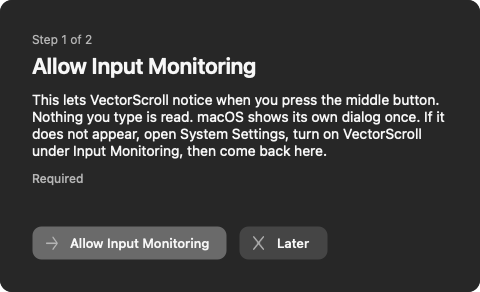
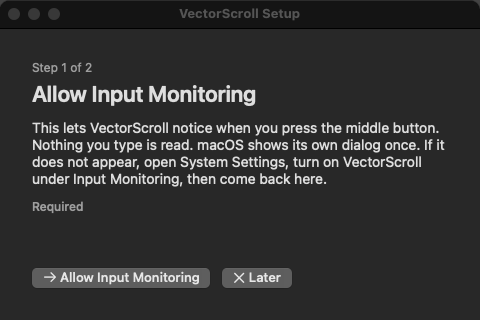
Trust fixture signers and refresh native settings screenshots

diff --git a/site/docs.html b/site/docs.html
@@ -23,7 +23,7 @@
     <h1>Docs</h1>
     <h2 id="start">Getting started</h2>
     <p>Download the <a href="https://github.com/Sowyu/VectorScroll/releases/latest/download/VectorScroll.dmg">DMG</a>, drag VectorScroll into Applications, and open it. The setup guide asks for two permissions, one page each. Then press the middle button in any window and move the pointer.</p>
-    <img src="onboarding.png" alt="Setup guide, Input Monitoring step" width="480" height="292">
+    <img src="onboarding.png" alt="Setup guide, Input Monitoring step" width="480" height="320">
     <h2 id="scrolling">Scrolling</h2>
     <p><b>Hold to scroll</b> is the default. Hold the middle button, move, release to stop. Nothing happens until the pointer leaves the 10 pt dead zone, so a quick middle click still opens a link in a new tab.</p>
     <p><b>Toggle scrolling</b> keeps going after you let go. Any mouse button stops it. The click that stops it also reaches the app under the pointer, so stop over empty space if you do not want to activate something.</p>
@@ -33,7 +33,7 @@
     <h2 id="indicator">Indicator</h2>
     <p>A circle with four arrows marks the point where you pressed. Choose light or dark, and 28, 32, 40, or 48 pt.</p>
     <h2 id="settings">Settings</h2>
-    <img src="settings-hold.png" alt="Settings window in hold-to-scroll mode" width="400" height="529">
+    <img src="settings-hold.png" alt="Settings window in hold-to-scroll mode" width="400" height="483">
     <p>The window opens on launch by default and from the menu bar icon. Command-W or the window close button hides it, and scrolling keeps working. Every change saves immediately.</p>
     <p><b>Open settings on launch</b> and <b>Show menu bar icon</b> control how you reach the app. One of them always stays on. <b>Launch at login</b> registers with the system login items. <b>Setup guide</b> at the top of the window reopens the permission walkthrough.</p>
     <p>If the menu bar icon is hidden, reopen the window from Applications or run:</p>

diff --git a/scripts/check-installer.swift b/scripts/check-installer.swift
@@ -65,12 +65,24 @@ struct CheckInstaller {
         try UpdateInstaller.run("/usr/bin/openssl", ["pkcs12", "-export", "-inkey", key.path, "-in", certificate.path,
                                                        "-out", archive.path, "-passout", "pass:test"])
         try UpdateInstaller.run("/usr/bin/security", ["import", archive.path, "-k", keychain.path, "-P", "test",
-                                                        "-T", "/usr/bin/codesign"])
+                                                        "-T", "/usr/bin/codesign", "-T", "/usr/bin/security"])
+        try UpdateInstaller.run("/usr/bin/security", ["add-trusted-cert", "-r", "trustRoot", "-p", "codeSign",
+                                                        "-k", keychain.path, certificate.path])
     }
 
     static func sign(_ app: URL, as identity: String, keychain: URL) throws {
-        try UpdateInstaller.run("/usr/bin/codesign", ["--force", "--deep", "--sign", identity,
-                                                       "--keychain", keychain.path, app.path])
+        let process = Process()
+        let errors = Pipe()
+        process.executableURL = URL(fileURLWithPath: "/usr/bin/codesign")
+        process.arguments = ["--force", "--deep", "--sign", identity, "--keychain", keychain.path, app.path]
+        process.standardOutput = FileHandle.nullDevice
+        process.standardError = errors
+        try process.run()
+        process.waitUntilExit()
+        guard process.terminationStatus == 0 else {
+            let details = String(data: errors.fileHandleForReading.readDataToEndOfFile(), encoding: .utf8) ?? "unknown error"
+            throw UpdateInstaller.Failure(message: "Fixture codesign failed for \(identity): \(details)")
+        }
     }
 
     static func atomicSwap(_ first: URL, _ second: URL) throws {
